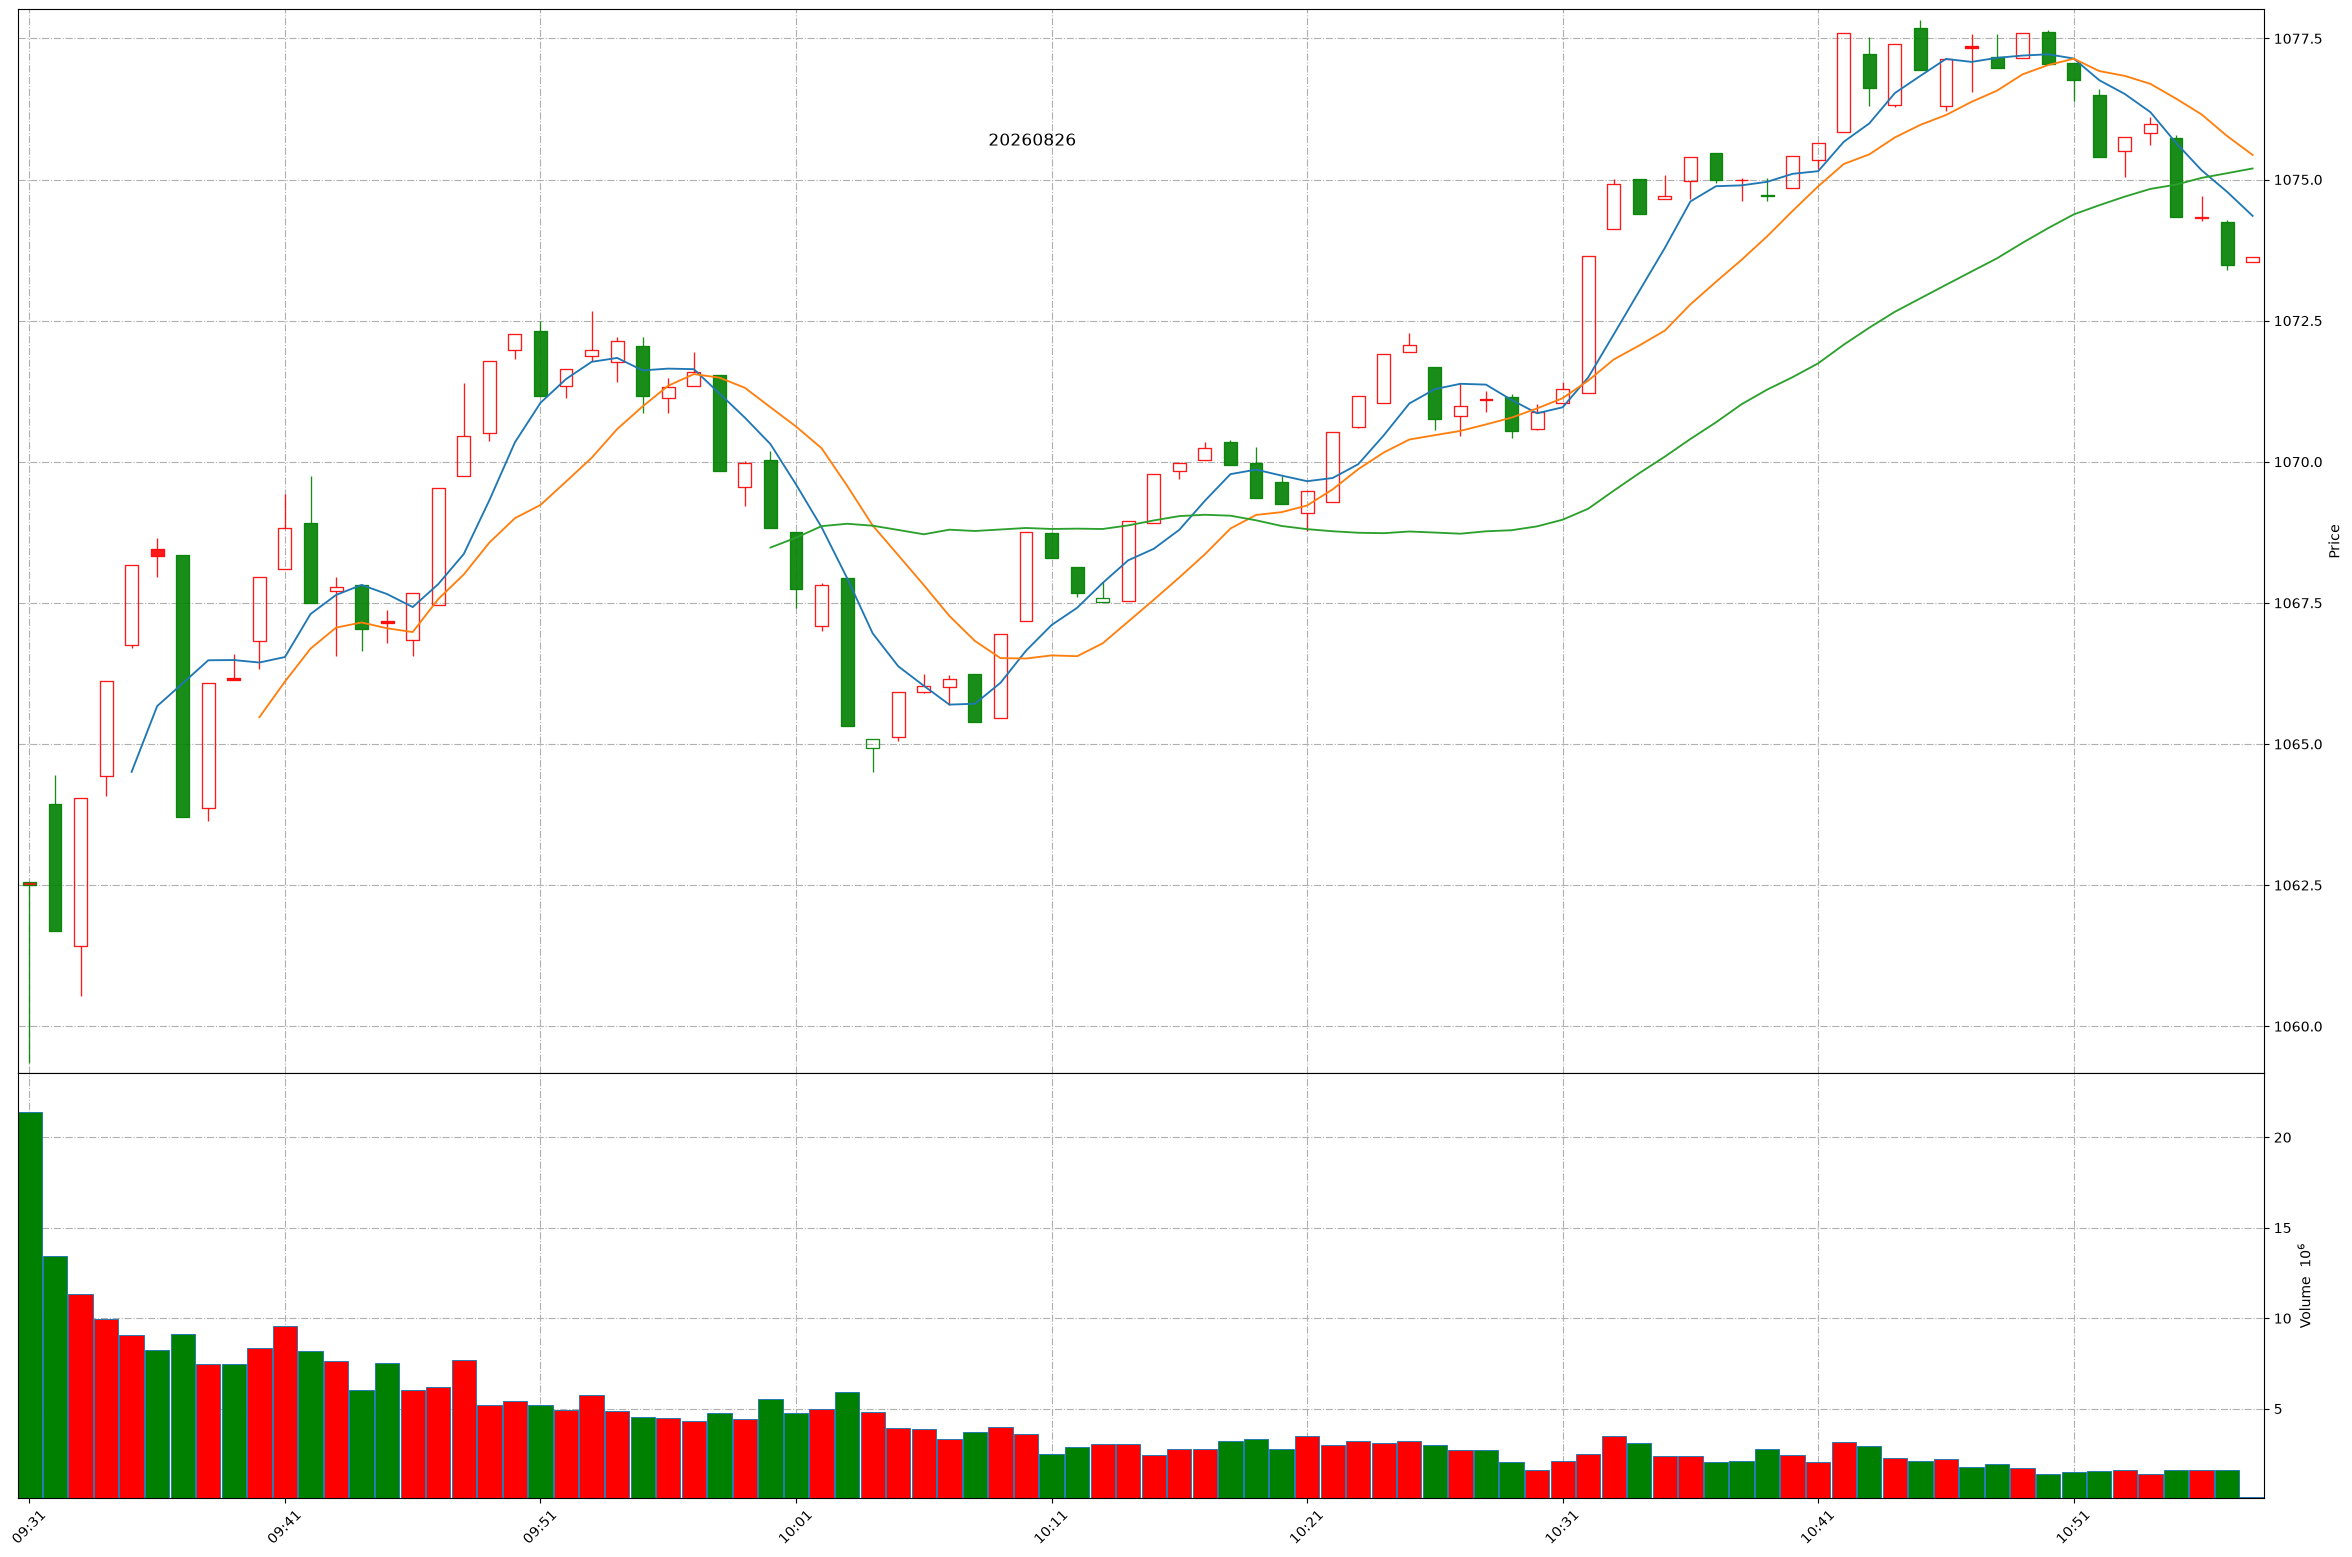
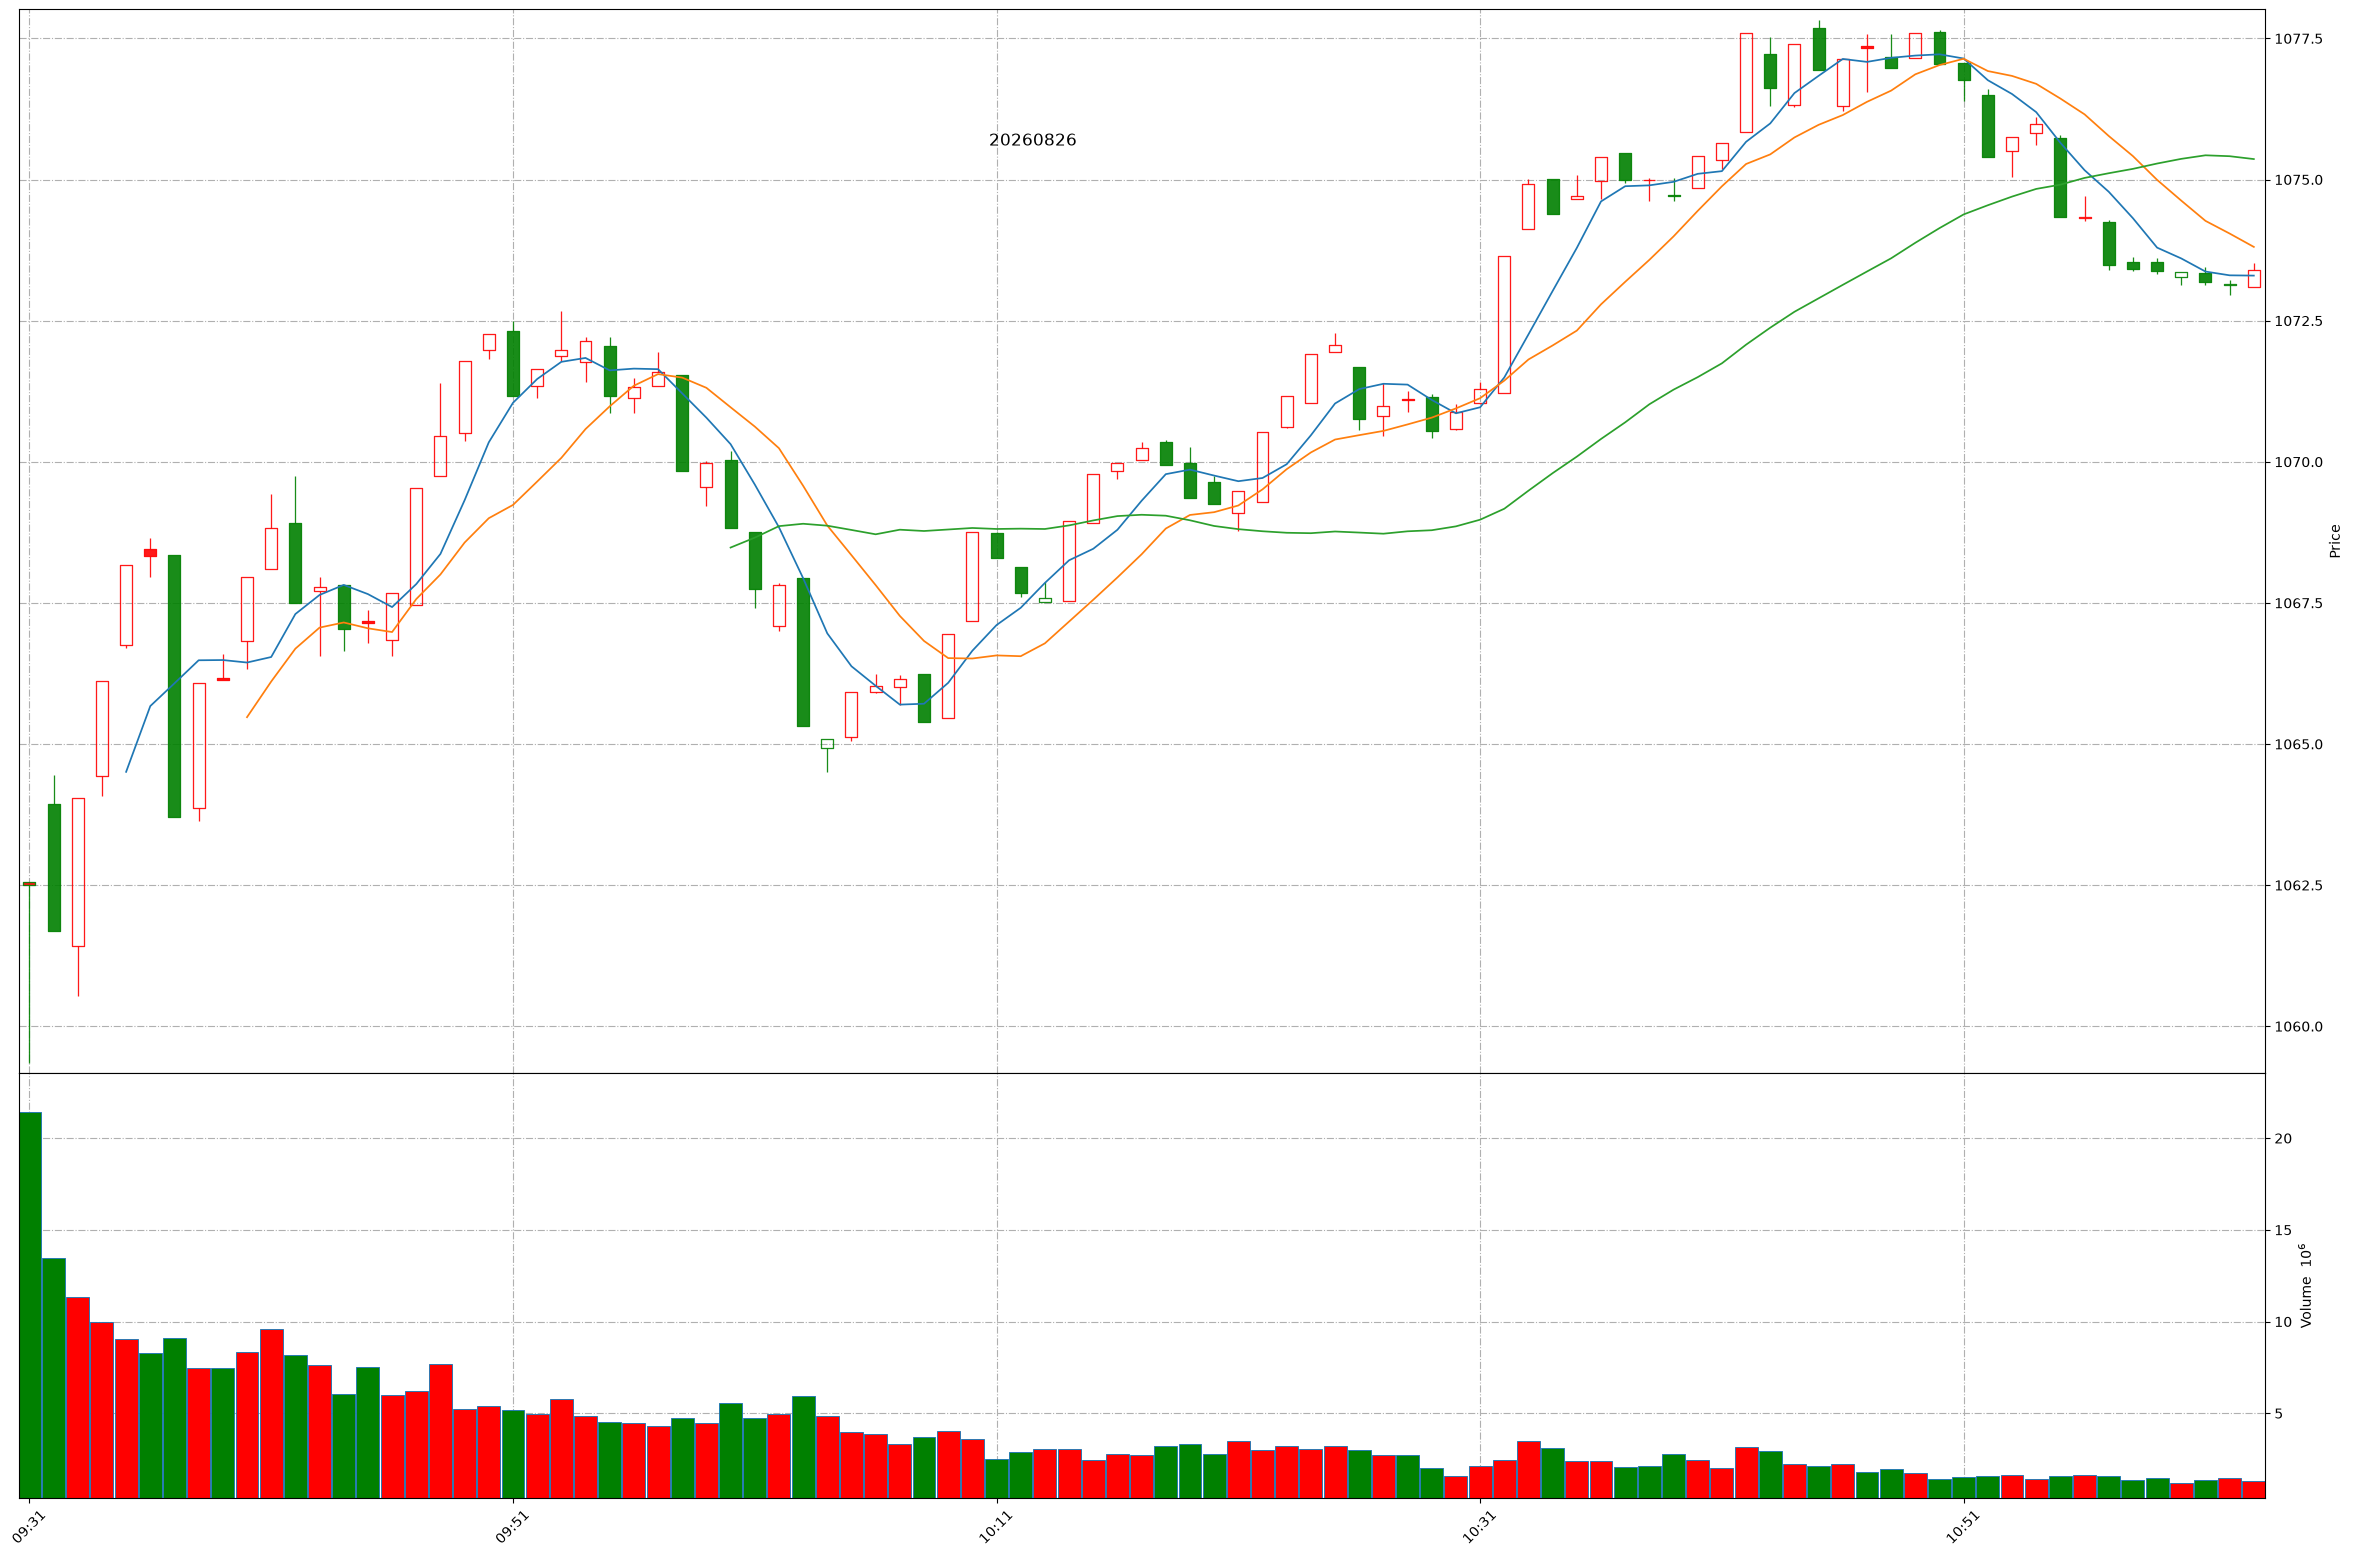
Github action update at 2026-08-26 11:03:05.

Changed region(s): [[0.0, 0.0, 0.9622, 0.6166], [0.0, 0.8015, 0.9622, 0.9865]]

diff --git a/README.md b/README.md
@@ -1,11 +1,11 @@
 
 # Daily-A-share-market-quotes 每日 A 股指数（5min 更新）- 20260826
 
-### 上证指数 20260826 10:57
+### 上证指数 20260826 11:3
 ![](./fig/2026/8/20260826-sh000001.png)
 
-### 深证成指 20260826 10:57
+### 深证成指 20260826 11:3
 ![](./fig/2026/8/20260826-sz399001.png)
 
-### 北证50 20260826 10:57
+### 北证50 20260826 11:3
 ![](./fig/2026/8/20260826-bj899050.png)
